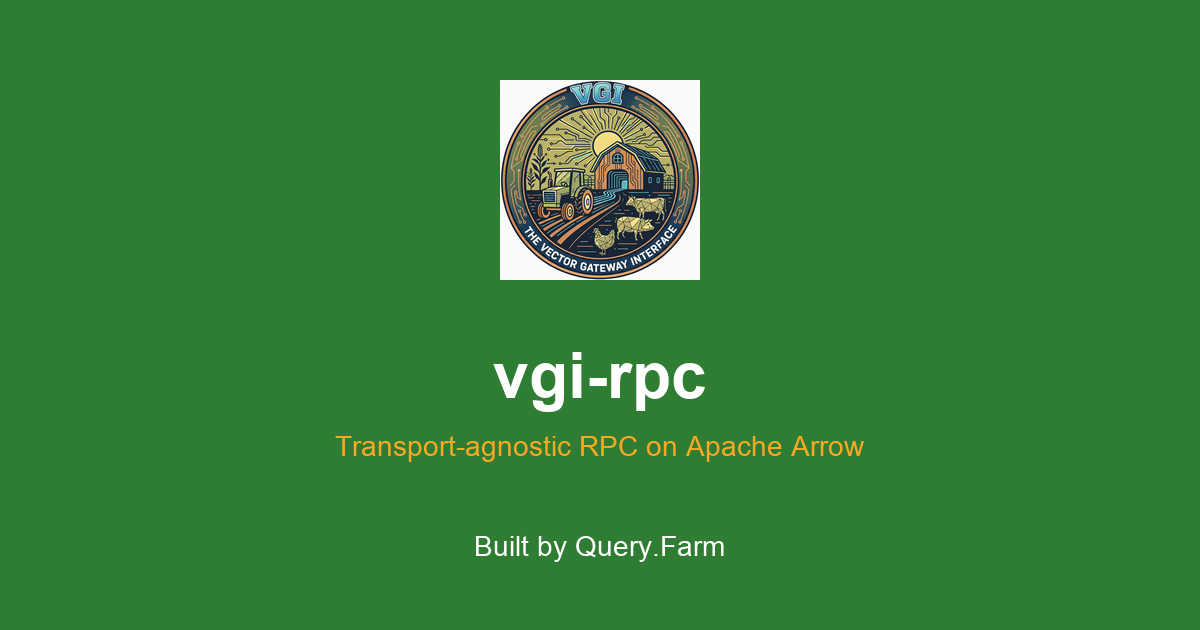
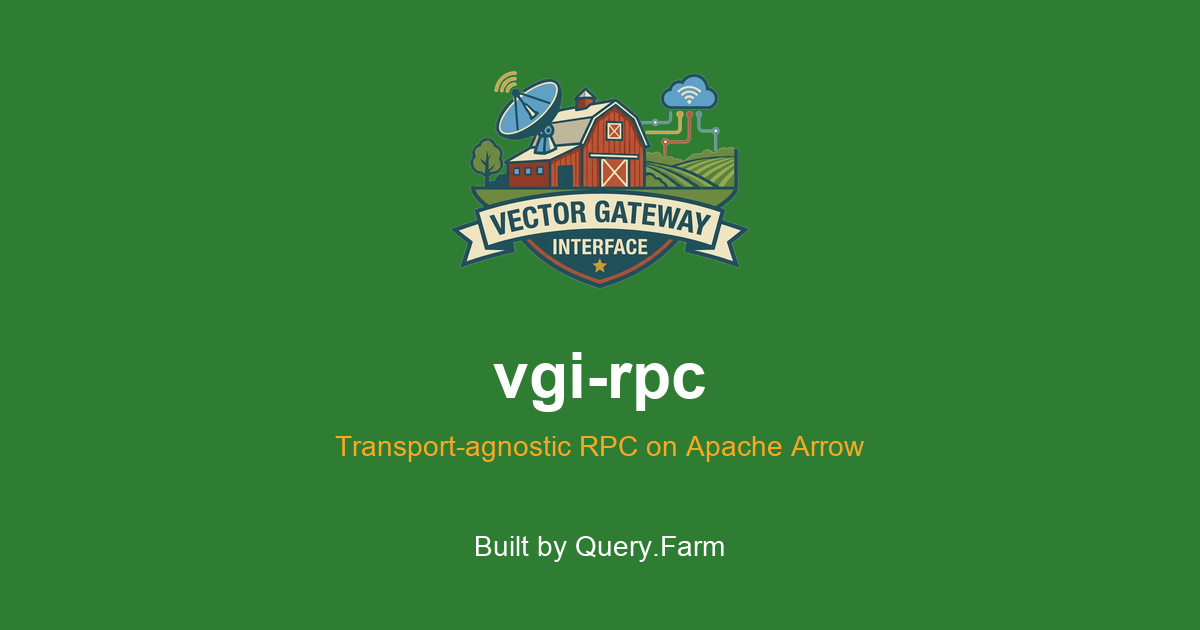
brand: replace the round seal with the shield mark
This repo was the last mkdocs port still shipping the circular VGI seal
while every sibling had moved to the landscape shield, so the four docs
sites disagreed with each other and with the READMEs.

The assets are now cut from a committed master by the same script the
Python repo uses — `docs/assets/logo-master.png` plus
`scripts/regenerate_logo_assets.py`, so the next reroll is one command
rather than seven hand edits — and the master is the new transparent
export, which the script passes through on its own alpha rather than
keying against white.

The CSS had to change with it. Both logo rules were built for a round
mark: the hero forced a 200x200 box and clipped it to a circle, and the
header cropped to a 3rem square with `object-fit: cover`. On a landscape
shield the first squashes the artwork and the second cuts the banner
off. Both now size by one axis and let the other follow, matching
vgi-rpc-python.

Changed region(s): [[0.37, 0.1206, 0.6167, 0.4524]]

diff --git a/docs/stylesheets/extra.css b/docs/stylesheets/extra.css
@@ -236,23 +236,27 @@
   margin-bottom: 1rem;
 }
 
+/* The mark is a landscape shield on transparency: sized by width with the
+   height left to follow, and shadowed with a drop-shadow that traces the alpha
+   silhouette. A box-shadow would outline the image box, not the shield. */
 .hero-logo-img {
-  border-radius: 50%;
-  box-shadow: 0 4px 24px rgba(0, 0, 0, 0.18);
+  filter: drop-shadow(0 4px 18px rgba(0, 0, 0, 0.22));
   transition: transform 0.3s ease;
-  width: 200px;
-  height: 200px;
+  width: 320px;
+  height: auto;
 }
 
 .hero-logo-img:hover {
   transform: scale(1.05);
 }
 
-/* Header logo — bigger than default, clipped to circle */
+/* Header logo — bigger than default. `object-fit: cover` in a 3rem square used
+   to crop the round seal harmlessly; on the landscape shield it would cut off
+   the banner, so the box follows the mark instead of the mark being cropped
+   to the box. */
 .md-header__button.md-logo img,
 .md-nav__button.md-logo img {
-  height: 3rem;
-  width: 3rem;
-  border-radius: 50%;
-  object-fit: cover;
+  height: 2.4rem;
+  width: auto;
+  object-fit: contain;
 }

diff --git a/scripts/regenerate_logo_assets.py b/scripts/regenerate_logo_assets.py
@@ -1,0 +1,294 @@
+#!/usr/bin/env python3
+# © Copyright 2025-2026, Query.Farm LLC - https://query.farm
+# SPDX-License-Identifier: Apache-2.0
+
+r"""Regenerate every brand asset in ``docs/assets`` from one master logo.
+
+The master is committed as ``docs/assets/logo-master.png``: the shield mark on
+a white background, at the highest resolution we have.  Every other asset is
+derived, so a new master is a one-command reroll rather than eight hand edits
+that drift apart:
+
+    uv run --with pillow --with numpy python scripts/regenerate_logo_assets.py
+
+Pass ``--master PATH`` to cut the assets from a different source, which also
+replaces the committed master.
+
+Two things here are less obvious than they look.
+
+**Background is every near-white pixel, not just the outer margin.** Keying
+only what the border can reach leaves the enclosed gaps opaque — the sky
+between the tree and the barn wall, the holes between the cloud's connector
+traces — which read as white specks on the cream page and glare on a dark one.
+The mark's lightest real ink is cream at min-channel 193, far below the
+threshold, so a global key cannot eat it.  That margin is not guaranteed for
+some future master, so the script reports how much keyed area was *enclosed*
+rather than border-connected: a master with genuine white ink shows up there
+as a large number instead of a few hundred stray pixels.
+
+**Antialiased edges need partial alpha, not a hard cut.** The outline blends
+into white over 1-2px.  Those pixels get alpha from how far they are from
+white, and their colour is then un-premultiplied so the result composites back
+over white exactly as the master did — and degrades gracefully over the cream
+page background rather than showing a white fringe.
+"""
+
+from __future__ import annotations
+
+import argparse
+import shutil
+from pathlib import Path
+
+import numpy as np
+from PIL import Image
+
+# Repository paths.
+_REPO = Path(__file__).resolve().parent.parent
+_ASSETS = _REPO / "docs" / "assets"
+_MASTER = _ASSETS / "logo-master.png"
+
+# A pixel is "background candidate" when every channel is at least this.  The
+# master's white is not perfectly flat (252-255), so an exact-white test leaves
+# a speckled halo.
+_WHITE_FLOOR = 244
+
+# How far the partial-alpha band reaches into the mark from the keyed region.
+# Two pixels covers the master's antialiasing; more would eat into solid ink.
+_EDGE_BAND = 2
+
+# Apple composites a transparent home-screen icon onto black on some iOS
+# versions, so that one asset stays opaque.  Cream matches the page background
+# the mark was drawn for.
+_ICON_BACKGROUND = (250, 248, 240)
+
+# The social card is regenerated by replacing just the logo block, so the text
+# rendered into it stays byte-identical rather than being re-typeset with
+# whatever fonts happen to be installed.
+_CARD_LOGO_CENTER = (600, 180)
+_CARD_LOGO_WIDTH = 300
+
+
+def _connected_to_border(candidate: np.ndarray) -> np.ndarray:
+    """Return the subset of *candidate* reachable from the image border.
+
+    Args:
+        candidate: 2-D bool array marking every near-white pixel.
+
+    Returns:
+        A 2-D bool array: the background proper, with interior white left out.
+
+    """
+    reached = np.zeros_like(candidate)
+    reached[0, :] = candidate[0, :]
+    reached[-1, :] = candidate[-1, :]
+    reached[:, 0] = candidate[:, 0]
+    reached[:, -1] = candidate[:, -1]
+
+    # Iterated 8-connected dilation clipped to the candidate set. Simple enough
+    # to trust by reading, and a few seconds on a 1200x900 master.
+    while True:
+        grown = reached.copy()
+        for shift, axis in ((1, 0), (-1, 0), (1, 1), (-1, 1)):
+            grown |= np.roll(reached, shift, axis=axis)
+        # Diagonals, so a 1px-wide gap between two shapes still lets the fill through.
+        for dy in (-1, 1):
+            for dx in (-1, 1):
+                grown |= np.roll(np.roll(reached, dy, axis=0), dx, axis=1)
+        grown &= candidate
+        if np.array_equal(grown, reached):
+            return reached
+        reached = grown
+
+
+def _dilate(mask: np.ndarray, radius: int) -> np.ndarray:
+    """Grow *mask* by *radius* pixels in 8-connectivity."""
+    out = mask.copy()
+    for _ in range(radius):
+        grown = out.copy()
+        for dy in (-1, 0, 1):
+            for dx in (-1, 0, 1):
+                grown |= np.roll(np.roll(out, dy, axis=0), dx, axis=1)
+        out = grown
+    return out
+
+
+def _already_transparent(master: Image.Image) -> bool:
+    """True when *master* carries its own alpha channel and actually uses it.
+
+    A master exported straight to transparency needs no keying, and keying it
+    anyway would be destructive: ``convert("RGB")`` drops the alpha and leaves
+    whatever RGB sits under the transparent pixels, which is as likely to be
+    black as white — the white-floor test then keys nothing and the result is
+    the mark on a black slab.
+
+    "Uses it" is deliberately a threshold rather than "has an A band": a fully
+    opaque RGBA export is the white-background case wearing an alpha channel,
+    and belongs on the keying path.
+    """
+    if master.mode not in ("RGBA", "LA", "PA"):
+        return False
+    alpha = np.asarray(master.convert("RGBA"))[..., 3]
+    return bool((alpha < 250).mean() > 0.01)
+
+
+def key_out_background(master: Image.Image) -> Image.Image:
+    """Replace the master's white background with transparency.
+
+    A master that is already transparent is passed through on its own alpha —
+    cropped to the mark, but otherwise untouched. Round-tripping it through
+    white would re-blend every antialiased edge against a background it was
+    never drawn on.
+
+    Args:
+        master: The logo on a white background, or one already transparent.
+
+    Returns:
+        An RGBA image cropped to the mark's bounding box.
+
+    """
+    if _already_transparent(master):
+        image = master.convert("RGBA")
+        opaque = int((np.asarray(image)[..., 3] > 0).sum())
+        print(f"master is already transparent: {opaque:,} px of mark, no keying applied")
+        bbox = image.getbbox()
+        return image.crop(bbox) if bbox else image
+
+    rgb = np.asarray(master.convert("RGB")).astype(np.float64)
+    background = rgb.min(axis=2) >= _WHITE_FLOOR
+    edge = _dilate(background, _EDGE_BAND) & ~background
+
+    # Enclosed keyed area is the tell that a master carries genuine white ink
+    # rather than gaps in the silhouette.  A few hundred pixels is the sky
+    # showing through the artwork; a few thousand means read the output before
+    # trusting it.
+    enclosed = int((background & ~_connected_to_border(background)).sum())
+    print(f"keyed {int(background.sum()):,} px, of which {enclosed:,} enclosed (gaps in the mark, not its margin)")
+
+    # Distance from white drives alpha in the edge band: solid ink is far from
+    # white and stays opaque, a pixel half-blended into the page is half
+    # transparent.  Keyed pixels snap to zero rather than inheriting the
+    # master's not-quite-white noise — otherwise the margin survives at alpha
+    # 1-3, invisible but enough to defeat the bounding-box crop below.
+    alpha = np.ones(rgb.shape[:2], dtype=np.float64)
+    alpha[background] = 0.0
+    alpha[edge] = 1.0 - rgb.min(axis=2)[edge] / 255.0
+
+    # Un-premultiply against white. Without this every edge keeps the white it
+    # was blended with and the mark wears a pale outline on a coloured page.
+    safe = np.maximum(alpha, 1e-6)[..., None]
+    straight = np.where(
+        alpha[..., None] > 0.0,
+        (rgb - (1.0 - safe) * 255.0) / safe,
+        0.0,
+    )
+
+    out = np.empty((*rgb.shape[:2], 4), dtype=np.uint8)
+    out[..., :3] = np.clip(straight, 0, 255).astype(np.uint8)
+    out[..., 3] = np.clip(alpha * 255.0, 0, 255).astype(np.uint8)
+    image = Image.fromarray(out, mode="RGBA")
+
+    # Crop the dead margin so every derived size is tight and predictable.
+    bbox = image.getbbox()
+    return image.crop(bbox) if bbox else image
+
+
+def _scaled_to_width(logo: Image.Image, width: int) -> Image.Image:
+    """Resample *logo* to *width*, preserving aspect ratio."""
+    height = round(logo.height * width / logo.width)
+    return logo.resize((width, height), Image.LANCZOS)
+
+
+def _letterboxed(logo: Image.Image, size: int, background: tuple[int, int, int] | None) -> Image.Image:
+    """Centre *logo* in a square canvas of *size*, padding rather than cropping.
+
+    Args:
+        logo: The transparent mark.
+        size: Side length of the square result.
+        background: Fill colour, or ``None`` for a transparent canvas.
+
+    Returns:
+        A square RGBA image.
+
+    """
+    # Inset slightly: a mark that touches the icon's edge reads as clipped.
+    fitted = _scaled_to_width(logo, round(size * 0.94))
+    if fitted.height > size:
+        fitted = fitted.resize((round(fitted.width * size / fitted.height), size), Image.LANCZOS)
+    canvas = Image.new("RGBA", (size, size), (*background, 255) if background else (0, 0, 0, 0))
+    canvas.alpha_composite(fitted, ((size - fitted.width) // 2, (size - fitted.height) // 2))
+    return canvas
+
+
+def _rebuild_social_card(logo: Image.Image, card_path: Path) -> None:
+    """Swap the logo block on the existing social card, leaving its text alone.
+
+    Args:
+        logo: The transparent mark.
+        card_path: The card to rewrite in place.
+
+    Raises:
+        FileNotFoundError: If the card is missing — it carries text this script
+            cannot re-typeset, so regenerating from scratch is not a fallback.
+
+    """
+    if not card_path.exists():
+        raise FileNotFoundError(f"{card_path} is required: the card's text cannot be regenerated from the master")
+    card = Image.open(card_path).convert("RGBA")
+    background = card.getpixel((0, 0))
+    assert isinstance(background, tuple)
+
+    fitted = _scaled_to_width(logo, _CARD_LOGO_WIDTH)
+    cx, cy = _CARD_LOGO_CENTER
+    # Paint out whatever occupied the block before, generously, then draw.
+    old = Image.new("RGBA", (max(_CARD_LOGO_WIDTH, 240) + 40, max(fitted.height, 240) + 40), background)
+    card.paste(old, (cx - old.width // 2, cy - old.height // 2))
+    card.alpha_composite(fitted, (cx - fitted.width // 2, cy - fitted.height // 2))
+    card.convert("RGB").save(card_path)
+
+
+def main() -> None:
+    """Cut every derived asset from the master and report what was written."""
+    parser = argparse.ArgumentParser(description=__doc__)
+    parser.add_argument(
+        "--master",
+        type=Path,
+        default=None,
+        help="Source logo on a white background. Replaces the committed master when given.",
+    )
+    args = parser.parse_args()
+
+    if args.master is not None:
+        shutil.copyfile(args.master, _MASTER)
+    if not _MASTER.exists():
+        parser.error(f"no master at {_MASTER}; pass --master PATH")
+
+    logo = key_out_background(Image.open(_MASTER))
+    print(f"master {Image.open(_MASTER).size} -> keyed mark {logo.size}")
+
+    # Full-resolution transparent mark. The README embeds this directly.
+    logo.save(_ASSETS / "logo-shield.png")
+
+    # Served on the landing / describe / 404 / 401 pages, which render it at
+    # 120-200 CSS px, and as the docs hero at 200. 600 keeps that 3x.
+    _scaled_to_width(logo, 600).save(_ASSETS / "logo-hero.png")
+
+    # mkdocs nav logo, rendered around 48px tall.
+    _scaled_to_width(logo, 512).save(_ASSETS / "logo.png")
+
+    _letterboxed(logo, 180, _ICON_BACKGROUND).save(_ASSETS / "apple-touch-icon.png")
+    _letterboxed(logo, 32, None).save(_ASSETS / "favicon-32x32.png")
+    _letterboxed(logo, 16, None).save(_ASSETS / "favicon-16x16.png")
+    _letterboxed(logo, 48, None).save(
+        _ASSETS / "favicon.ico",
+        sizes=[(16, 16), (32, 32), (48, 48)],
+    )
+
+    _rebuild_social_card(logo, _ASSETS / "social-card.png")
+
+    for name in [*sorted(p.name for p in _ASSETS.glob("*.png")), "favicon.ico"]:
+        path = _ASSETS / name
+        print(f"  {name:24} {Image.open(path).size!s:12} {path.stat().st_size // 1024:>5} KiB")
+
+
+if __name__ == "__main__":
+    main()
